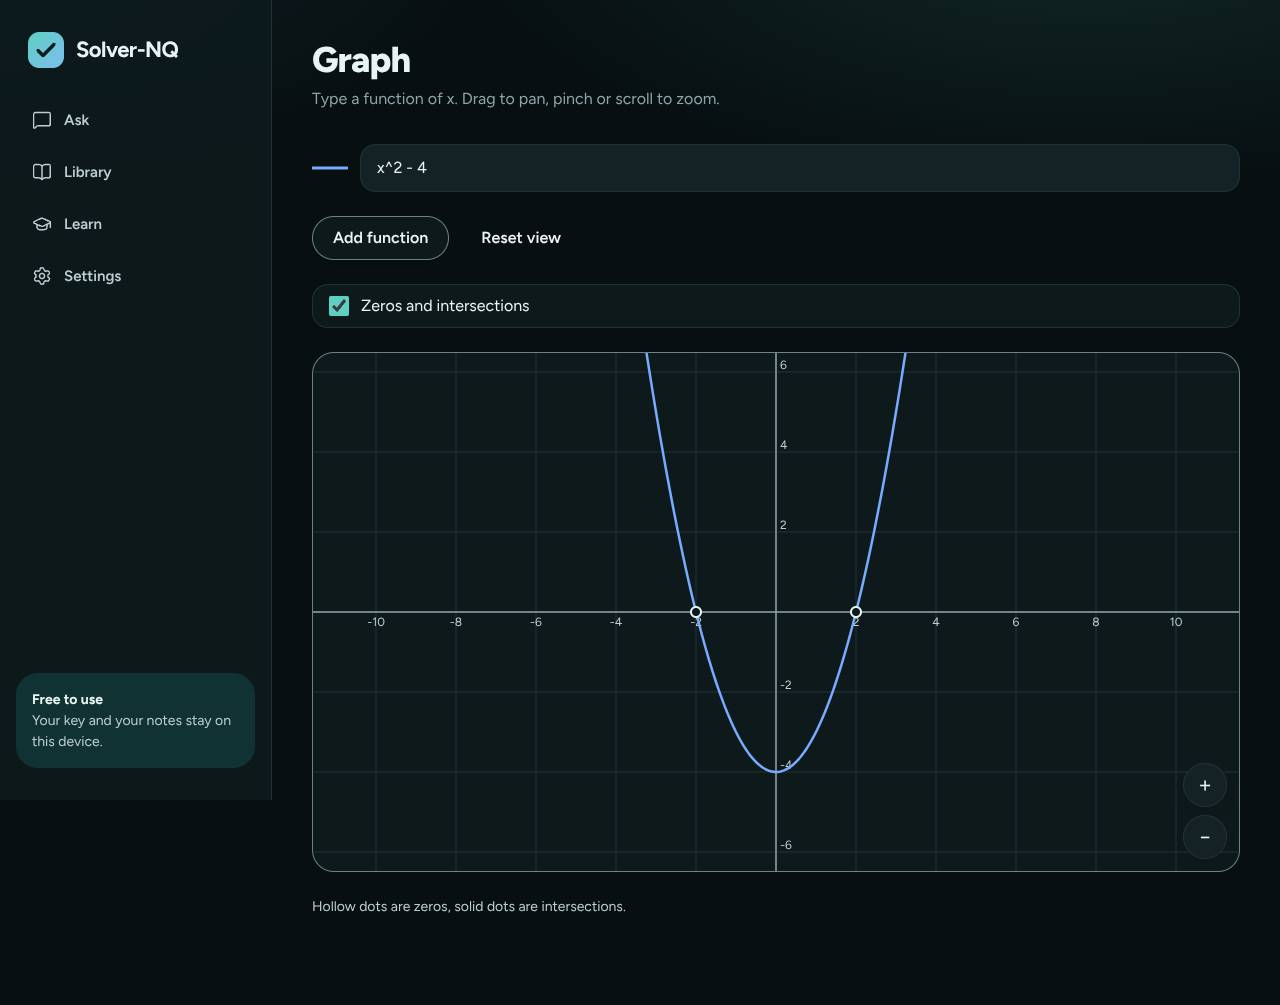
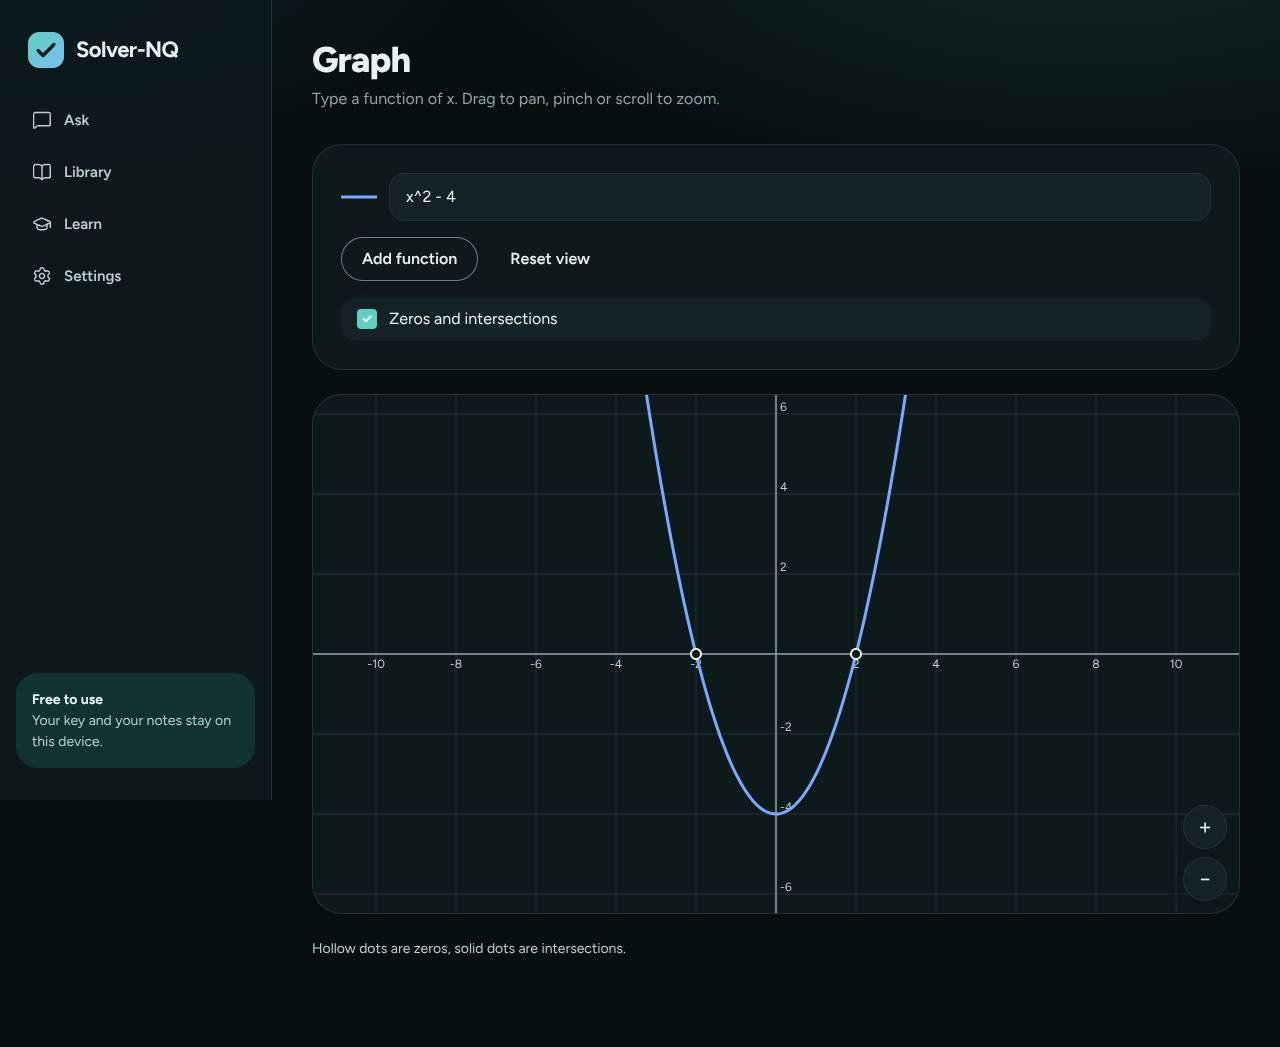
[AI-4] Graph design v3: card controls, elevated plot, 44 px checkbox; screenshots, status

diff --git a/src/features/graph/GraphPage.tsx b/src/features/graph/GraphPage.tsx
@@ -1,6 +1,6 @@
 import { useMemo, useState } from 'react';
 import { useSearchParams } from 'react-router-dom';
-import { Button, Cluster, IconButton, Input, PageHeader, Stack } from '@/components/ui';
+import { Button, Card, Cluster, IconButton, Input, PageHeader, Stack } from '@/components/ui';
 import { GraphCanvas } from './GraphCanvas';
 import { COLORS, DASHES, DEFAULT_VIEW, compileFn, findMarks, viewBounds, type Fn, type View } from './plot';
 
@@ -31,6 +31,8 @@ export function GraphPage() {
     <>
       <PageHeader title="Graph" subtitle="Type a function of x. Drag to pan, pinch or scroll to zoom." />
       <Stack gap={6}>
+        <Card>
+        <Stack gap={4}>
         <Stack gap={3}>
           {texts.map((t, i) => {
             const c = compiled[i];
@@ -52,11 +54,15 @@ export function GraphPage() {
           {texts.length < MAX_FNS && <Button variant="secondary" onClick={() => setTexts((t) => [...t, ''])}>Add function</Button>}
           <Button variant="ghost" onClick={() => setView(DEFAULT_VIEW)}>Reset view</Button>
         </Cluster>
-        <label className="flex min-h-[44px] w-full cursor-pointer items-center gap-3 rounded-md border border-line bg-surface px-4 text-base">
-          <input type="checkbox" checked={showMarks} onChange={(e) => setShowMarks(e.target.checked)} className="h-5 w-5 accent-[rgb(var(--accent))]" />
+        <label className="relative flex min-h-[44px] w-full cursor-pointer items-center gap-3 rounded-md bg-raised px-4 text-base">
+          <input type="checkbox" checked={showMarks} onChange={(e) => setShowMarks(e.target.checked)}
+            className="peer absolute inset-0 h-full w-full cursor-pointer opacity-0" />
+          <span aria-hidden className="flex h-5 w-5 shrink-0 items-center justify-center rounded border-2 border-line-strong bg-surface text-caption font-bold leading-none text-transparent peer-checked:border-accent peer-checked:bg-accent peer-checked:text-white peer-focus-visible:ring-2 peer-focus-visible:ring-accent">✓</span>
           Zeros and intersections
         </label>
-        <div className="h-[55dvh] min-h-[320px] lg:h-[520px]"><GraphCanvas fns={fns} view={view} onView={setView} marks={marks} /></div>
+        </Stack>
+        </Card>
+        <div className="elev-2 h-[55dvh] min-h-[320px] overflow-hidden rounded-xl lg:h-[520px]"><GraphCanvas fns={fns} view={view} onView={setView} marks={marks} /></div>
         <p className="text-sm text-ink-2">Hollow dots are zeros, solid dots are intersections.</p>
       </Stack>
     </>

diff --git a/src/features/graph/GraphCanvas.tsx b/src/features/graph/GraphCanvas.tsx
@@ -65,7 +65,7 @@ export function GraphCanvas({ fns, view, onView, marks }: Props) {
   };
 
   return (
-    <div ref={ref} className="relative h-full min-h-[320px] w-full select-none overflow-hidden rounded-lg border border-line-strong bg-surface"
+    <div ref={ref} className="relative h-full min-h-[320px] w-full select-none overflow-hidden rounded-xl bg-surface"
       style={{ touchAction: 'none' }} onPointerDown={onDown} onPointerMove={onMove} onPointerUp={onUp}
       onPointerCancel={onUp} onWheel={onWheel}>
       <svg width={w} height={h} role="img" aria-label="Function graph">
@@ -77,7 +77,7 @@ export function GraphCanvas({ fns, view, onView, marks }: Props) {
           <text key={`tx${t}`} x={sx(t)} y={axisX + 14} textAnchor="middle" fontSize={12} fill="rgb(var(--ink-2))">{formatTick(t)}</text>))}
         {ticks(b.ymin, b.ymax).filter((t) => t !== 0).map((t) => (
           <text key={`ty${t}`} x={axisY + 4} y={sy(t) - 3} fontSize={12} fill="rgb(var(--ink-2))">{formatTick(t)}</text>))}
-        {paths.map((d, i) => d && <path key={i} d={d} fill="none" stroke={COLORS[i % COLORS.length]} strokeWidth={2.5} strokeLinejoin="round" strokeDasharray={DASHES[i % DASHES.length] || undefined} />)}
+        {paths.map((d, i) => d && <path key={i} d={d} fill="none" stroke={COLORS[i % COLORS.length]} strokeWidth={3} strokeLinecap="round" strokeLinejoin="round" strokeDasharray={DASHES[i % DASHES.length] || undefined} />)}
         {marks.map((m, i) => (
           <circle key={i} cx={sx(m.x)} cy={sy(m.y)} r={5} fill={m.kind === 'zero' ? 'rgb(var(--surface))' : 'rgb(var(--ink))'}
             stroke="rgb(var(--ink))" strokeWidth={2}><title>{`(${formatTick(+m.x.toPrecision(6))}, ${formatTick(+m.y.toPrecision(6))})`}</title></circle>))}

diff --git a/docs/status/AI-4.md b/docs/status/AI-4.md
@@ -69,3 +69,4 @@
 
 ## Design v3, Scan lane (13 Nov 2026)
 - Dropped my own foundation attempt (AI-1's teal Design v3 was already on main). Scan capture: camera-style `Viewfinder` panel with animated scan line, one-line tip, stacked actions, red inline file error; connected `StepIndicator` (tick for done steps, brand gradient for current). One keyframe (`scan-line`) appended to `src/app/index.css`. Typecheck, lint, 385 tests, 0 layout and 0 axe findings on /scan. Graph and crop/result chrome still to do.
+- Graph: controls grouped in a Card, plot on an elevated rounded panel with thicker curves, "Zeros and intersections" checkbox now a 44 px hit area (it was the last tap-target finding on /graph). 385 tests, 0 layout findings.
